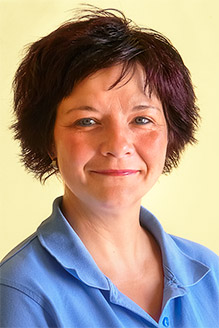
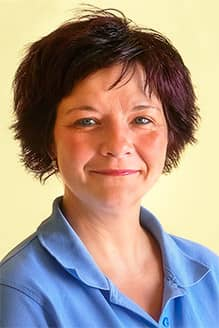
Image optimizations
Compressed files, converted to webp

diff --git a/index.html b/index.html
@@ -30,6 +30,7 @@
     <link rel="stylesheet" href="styles/index.css">
 
     <!--Preload-->
+    <link rel="preload" as="image" href="images/Gruppenfoto2018.webp">
     <link rel="preload" as="font" type="font/woff2" href="./fonts/radio-canada-v11-latin-regular.woff2" crossorigin>
 
 
@@ -64,7 +65,7 @@
             </svg>
 
             <div class="photoAndHeads">
-                <img class="groupPhoto" src="images/Gruppenfoto2018.jpg" width="805" height="549"
+                <img class="groupPhoto" src="images/Gruppenfoto2018.webp" width="805" height="549"
                     alt="Praxis Team von Praxis Dr. Bergerhoff">
                 <input type="checkbox" name="" id="harryInfo"
                     aria-label="Auswählen, um mehr Info zu Harald Bergerhoff lesen">
@@ -323,7 +324,7 @@
                     d="M12.166 8.94c-.524 1.062-1.234 2.12-1.96 3.07A31.493 31.493 0 0 1 8 14.58a31.481 31.481 0 0 1-2.206-2.57c-.726-.95-1.436-2.008-1.96-3.07C3.304 7.867 3 6.862 3 6a5 5 0 0 1 10 0c0 .862-.305 1.867-.834 2.94zM8 16s6-5.686 6-10A6 6 0 0 0 2 6c0 4.314 6 10 6 10z" />
                 <path d="M8 8a2 2 0 1 1 0-4 2 2 0 0 1 0 4zm0 1a3 3 0 1 0 0-6 3 3 0 0 0 0 6z" />
             </svg>
-            <a href="https://www.openstreetmap.org/node/387844871#map=19/51.14224/7.21592"><img src="images/Map.jpg"
+            <a href="https://www.openstreetmap.org/node/387844871#map=19/51.14224/7.21592"><img src="images/Map.webp"
                     alt="Standsortskarte, Artztpraxis Bergerhoff" width="675" height="268"></a>
         </div>
 

diff --git a/styles/shared.css b/styles/shared.css
@@ -187,8 +187,10 @@ table {
 :root {
     --fontPrimaryColor: #fdfdfd;
     --fontSecondaryColor: #000000;
-    --primaryColor: #F4313F;
-    --secondaryColor: #00A19C;
+    --primaryColor: #e51d35;
+    /*#F4313F; */
+    --secondaryColor: #008480;
+    /*#00A19C; */
     --primaryBorderRadius: 1.7rem;
 }
 

diff --git a/styles/index.css b/styles/index.css
@@ -523,6 +523,7 @@ address {
 
 .mapContainer img {
     width: 90%;
+    height: auto;
     max-width: 67.5rem;
     min-width: 31.2rem;
     border-style: solid;
